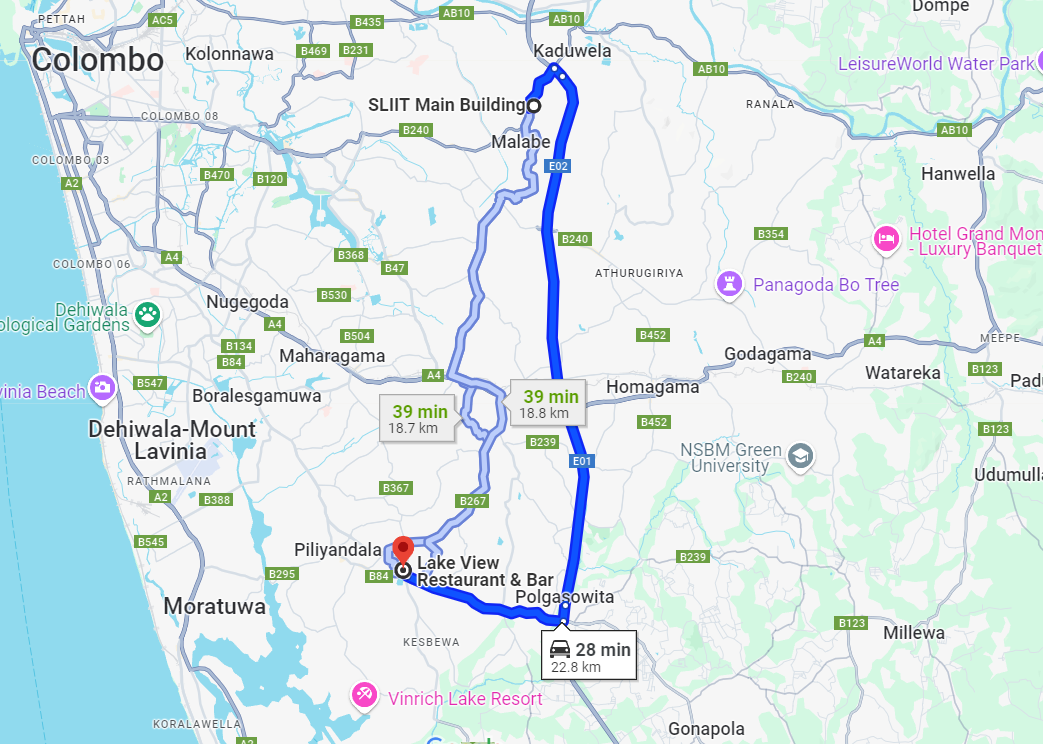
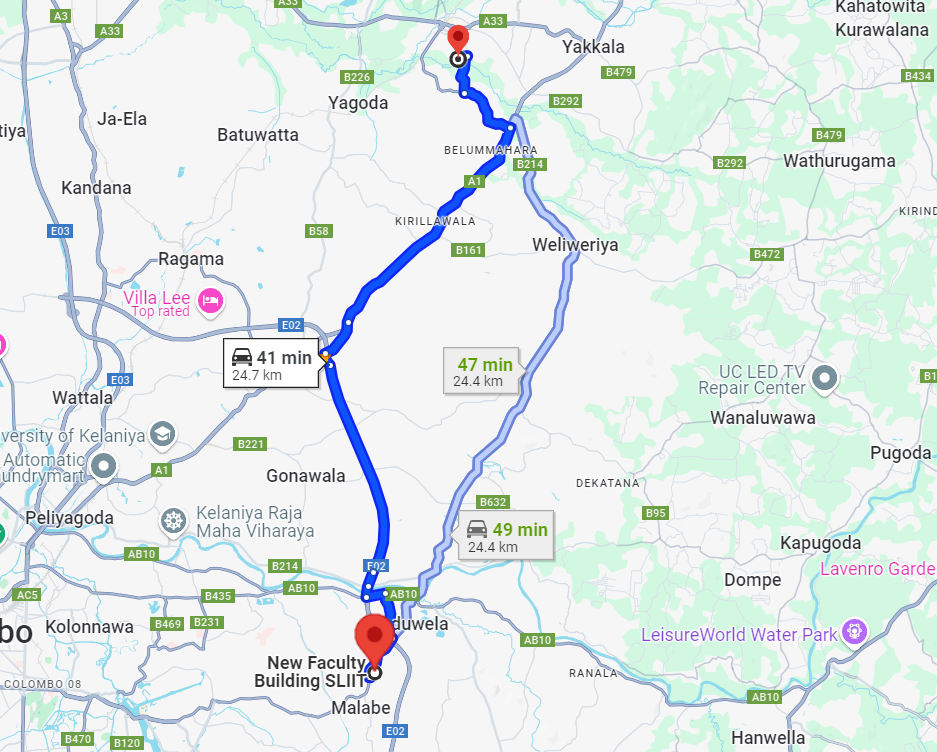
comm

diff --git a/client/src/pages/customerSupport/TransportPage.jsx b/client/src/pages/customerSupport/TransportPage.jsx
@@ -14,7 +14,7 @@ const TransportPage = () => {
 
         <div style={styles.imageContainer}>
           {/* Image replacing the Map component */}
-          <a href='https://www.google.com/maps/dir/SLIIT+Main+Building,+Malabe/Lake+View+Restaurant+%26+Bar,+Piliyandala+Bypass+Rd,+Piliyandala/@6.8541782,79.8786464,12z/data=!3m1!4b1!4m13!4m12!1m5!1m1!1s0x3ae256db1043cc37:0x5f43c37d11c72aa!2m2!1d79.9731674!2d6.9148818!1m5!1m1!1s0x3ae24feaf652ca1b:0x87297a387eea35ce!2m2!1d79.9397643!2d6.7968439?entry=ttu&g_ep=EgoyMDI0MDgyOC4wIKXMDSoASAFQAw%3D%3D'><img
+          <a href='https://www.google.com/maps/dir/New+Faculty+Building+SLIIT/7.0827855,79.9966061/@6.9989113,79.9120864,12z/data=!3m1!4b1!4m9!4m8!1m5!1m1!1s0x3ae2573621fad1ad:0x54a15134a9f5f1c8!2m2!1d79.9738557!2d6.9154633!1m1!4e1?entry=ttu&g_ep=EgoyMDI0MDkwMi4xIKXMDSoASAFQAw%3D%3D'><img
             src={Map}
             alt="Transport Map"
             style={styles.image}
